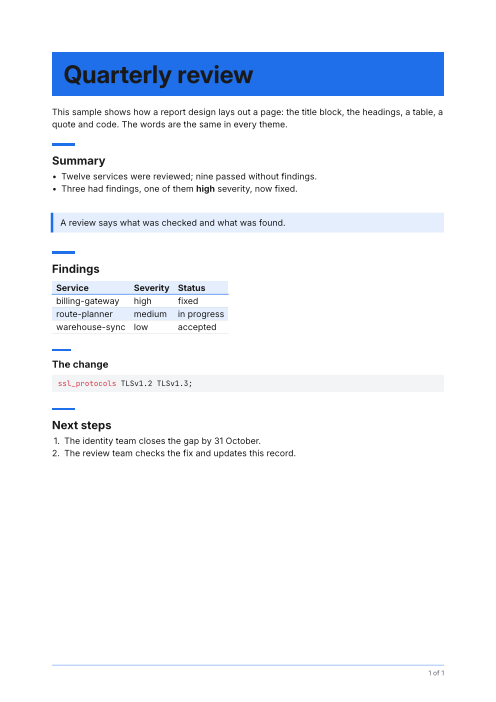
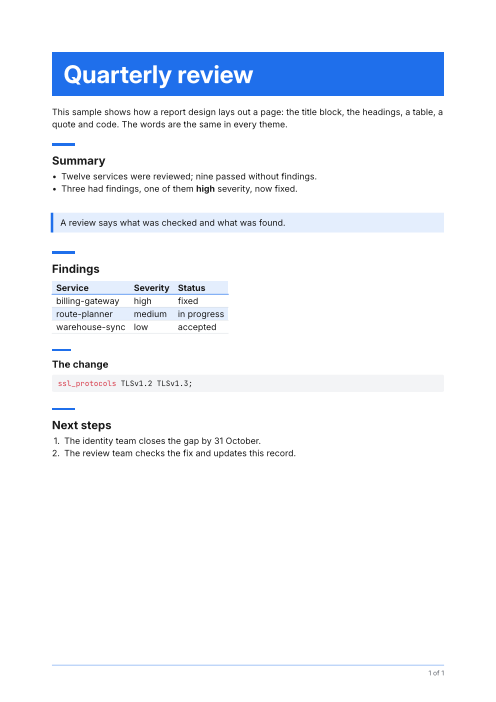
fix(runner): a band title is white on the accent; review findings
The review's invariants axis found the band title block drawn near-black on
the accent: the document's `show heading: set text(fill: ink)` sat closer to
the heading than the band's `set text(fill: white)`. Modern's title measured
3.76:1, below the 4.5:1 the core checked on the assumption of white
(DEV-230's AccentOnText, plan invariant 7). The band now sets white with a
show-set rule on the heading; TestRealRenderABandTitleIsWhite holds every
pixel inside the band to white or the accent (fails on the old template for
both accents tried), and Modern's thumbnail is redrawn.

Also from the review: a relative report.design is refused when the config
directory is unknown, rather than read from the working directory;
pkg/reportthumbs takes its ids from the core; comments that still spoke of
v1 themes now speak of the design.

Refs #784

Changed region(s): [[0.121, 0.0897, 0.5141, 0.1197]]

diff --git a/runnerimage/toolsrv/themes_test.go b/runnerimage/toolsrv/themes_test.go
@@ -589,3 +589,64 @@ func firstDifference(a, b image.Image) (int, int, bool) {
 	}
 	return 0, 0, false
 }
+
+// TestRealRenderABandTitleIsWhite (DEV-230's AccentOnText, invariant 7): a
+// band title block sets the title in white on the accent, the colour the
+// core's contrast check assumed; no pixel inside the band is darker than the
+// accent itself (the near-black body text drawn there by mistake would be).
+func TestRealRenderABandTitleIsWhite(t *testing.T) {
+	typst := realTypst(t)
+	for _, accent := range []string{"#1f6feb", "#0b3d2e"} {
+		d, _ := reportdesign.Builtin("modern")
+		d.Accent = accent
+		page := renderPNGsAt(t, typst, d.Canonical(), FormReport, "# A band title\n\nBody text.\n", thumbnailPPI, true)[0]
+		ar, ag, ab := hexRGB(t, accent)
+		rgb := func(x, y int) (uint32, uint32, uint32) {
+			r, g, bl, _ := page.At(x, y).RGBA()
+			return r >> 8, g >> 8, bl >> 8
+		}
+		isAccent := func(x, y int) bool { r, g, bl := rgb(x, y); return near(r, ar) && near(g, ag) && near(bl, ab) }
+		// The band is the box of accent pixels; its title is everything
+		// inside it that is not the accent.
+		b := page.Bounds()
+		x0, y0, x1, y1 := b.Max.X, b.Max.Y, -1, -1
+		for y := b.Min.Y; y < b.Max.Y; y++ {
+			for x := b.Min.X; x < b.Max.X; x++ {
+				if isAccent(x, y) {
+					x0, y0, x1, y1 = min(x0, x), min(y0, y), max(x1, x), max(y1, y)
+				}
+			}
+		}
+		if x1 < 0 {
+			t.Fatalf("%s: no band drawn", accent)
+		}
+		white, dark := 0, 0
+		for y := y0 + 2; y < y1-1; y++ {
+			for x := x0 + 2; x < x1-1; x++ {
+				r, g, bl := rgb(x, y)
+				if r > 240 && g > 240 && bl > 240 {
+					white++
+				}
+				if luma(r, g, bl) < luma(ar, ag, ab)-8 {
+					dark++
+				}
+			}
+		}
+		if white == 0 || dark > 0 {
+			t.Errorf("%s: inside the band %d pixels are white and %d darker than the accent: the band's title is not white", accent, white, dark)
+		}
+	}
+}
+
+func hexRGB(t *testing.T, h string) (uint32, uint32, uint32) {
+	t.Helper()
+	var r, g, b uint32
+	if _, err := fmt.Sscanf(h, "#%02x%02x%02x", &r, &g, &b); err != nil {
+		t.Fatal(err)
+	}
+	return r, g, b
+}
+
+func near(a, b uint32) bool { return a+3 >= b && b+3 >= a }
+
+func luma(r, g, b uint32) uint32 { return (299*r + 587*g + 114*b) / 1000 }

diff --git a/pkg/runner/engine/engine.go b/pkg/runner/engine/engine.go
@@ -112,9 +112,11 @@ type Params struct {
 	// voice_read granted and the receipt's voice line written only then.
 	// A built-in's run never carries one (D5).
 	Voice *AttachedVoice
-	// ReportTheme is the theme export_pdf lays the run's PDFs out with, and
-	// what chose it (agentry-cli#731); an empty Name is the built-in
-	// default. Used only when the plan grants export_pdf.
+	// ReportTheme is the report design export_pdf lays the run's PDFs out
+	// with, and what chose it (agentry-cli#731, #784): a design document, or
+	// a built-in theme's id; neither is the default, Plain. The type keeps
+	// its v1 name so that a caller passing a built-in's id (the desktop)
+	// still builds. Used only when the plan grants export_pdf.
 	ReportTheme ReportTheme
 	// Decoded, when set, is the decode step the caller ran on the inputs
 	// before this run (pkg/runner/decode); the receipt names it.

diff --git a/cmd/agentry/report_theme.go b/cmd/agentry/report_theme.go
@@ -71,12 +71,16 @@ func chooseReportTheme(ctx context.Context, flags reportFlags, cfg cliConfig, ac
 	}
 	fallback := engine.ReportTheme{Name: toolsrv.DefaultTheme, From: engine.ThemeFromDefault}
 	name, file := strings.TrimSpace(cfg.Report.Theme), strings.TrimSpace(cfg.Report.Design)
-	path, _ := configPath()
+	path, pathErr := configPath()
 	switch {
 	case name != "" && file != "":
 		return usage("report.theme and report.design in %s both choose the report design; keep one", path)
 	case file != "":
 		if !filepath.IsAbs(file) {
+			// Relative to the config directory, never the working one.
+			if pathErr != nil {
+				return usage("report.design %q is relative, and the config directory is not known: %v", file, pathErr)
+			}
 			file = filepath.Join(filepath.Dir(path), file)
 		}
 		doc, err := readDesignFile(file)

diff --git a/runnerimage/toolsrv/pdf.go b/runnerimage/toolsrv/pdf.go
@@ -116,7 +116,7 @@ type PDFEntry struct {
 func validatePDF(spec *Spec) error {
 	p := spec.PDF
 	if !p.Enabled && (p.Theme != nil || p.Ledger != "") {
-		return errors.New("pdf: a theme or a ledger without the export_pdf grant")
+		return errors.New("pdf: a report design or a ledger without the export_pdf grant")
 	}
 	if p.Theme != nil {
 		if _, err := p.Theme.check(); err != nil {
@@ -328,7 +328,7 @@ type pdfMeta struct {
 	// Agentry (D14).
 	Author string              `json:"author"`
 	Images map[string]pdfImage `json:"images"`
-	// Date is the day of the render (UTC, YYYY-MM-DD), for a theme's cover
+	// Date is the day of the render (UTC, YYYY-MM-DD), for a report's cover
 	// page: the same in every language.
 	Date string `json:"date"`
 	// Titled says the title is the report's own first heading, not its

diff --git a/pkg/reportthumbs/reportthumbs_test.go b/pkg/reportthumbs/reportthumbs_test.go
@@ -3,19 +3,13 @@ package reportthumbs
 import (
 	"bytes"
 	"image/png"
-	"slices"
 	"testing"
-
-	"github.com/blaktron/agentry/pkg/reportdesign"
 )
 
-// TestEveryBuiltinHasAThumbnail: one PNG per built-in theme of the core's
-// pkg/reportdesign, in its order, and nothing for anything else.
+// TestEveryBuiltinHasAThumbnail: a PNG for each built-in theme of the core's
+// pkg/reportdesign, and nothing for anything else.
 func TestEveryBuiltinHasAThumbnail(t *testing.T) {
-	if !slices.Equal(IDs, reportdesign.BuiltinIDs()) {
-		t.Fatalf("IDs = %v, the core's built-in themes are %v", IDs, reportdesign.BuiltinIDs())
-	}
-	for _, id := range IDs {
+	for _, id := range IDs() {
 		b, ok := PNG(id)
 		if !ok {
 			t.Fatalf("%s has no thumbnail", id)

diff --git a/pkg/runner/receipt/receipt.go b/pkg/runner/receipt/receipt.go
@@ -91,9 +91,9 @@ type Envelope struct {
 	// PDFs is what export_pdf wrote (plan scratch-and-pdf-reports.md §5,
 	// D15; agentry-cli#730): the report design every PDF of the run was laid
 	// out with (report-designs.md, agentry-cli#784), and each PDF in reports/
-	// whose bytes are the ones the tools server recorded, with its form. A reader opens in place only a PDF this names with a
-	// matching SHA-256; any other is download-only. Absent for a run that
-	// exported none.
+	// whose bytes are the ones the tools server recorded, with its form. A
+	// reader opens in place only a PDF this names with a matching SHA-256;
+	// any other is download-only. Absent for a run that exported none.
 	PDFs *PDFs `json:"pdfs,omitempty"`
 }
 

diff --git a/pkg/reportthumbs/reportthumbs.go b/pkg/reportthumbs/reportthumbs.go
@@ -15,18 +15,20 @@ package reportthumbs
 import (
 	"embed"
 	"slices"
+
+	"github.com/blaktron/agentry/pkg/reportdesign"
 )
 
 //go:embed *.png
 var files embed.FS
 
 // IDs are the built-in themes a thumbnail is kept for, in the order they
-// are offered: pkg/reportdesign's BuiltinIDs, which a test holds.
-var IDs = []string{"plain", "classic", "modern", "editorial", "technical"}
+// are offered: the core's.
+func IDs() []string { return reportdesign.BuiltinIDs() }
 
 // PNG is a built-in theme's thumbnail.
 func PNG(id string) ([]byte, bool) {
-	if !slices.Contains(IDs, id) {
+	if !slices.Contains(IDs(), id) {
 		return nil, false
 	}
 	b, err := files.ReadFile(id + ".png")

diff --git a/runnerimage/toolsrv/markdown.go b/runnerimage/toolsrv/markdown.go
@@ -343,8 +343,8 @@ var (
 	mdHTMLStart = regexp.MustCompile(`^ {0,3}<`)
 )
 
-// hardLineBreaks keeps each line of a paragraph on a line of its own (a
-// theme's lineBreaks "hard"; agentry-cli#731): a letter's address block,
+// hardLineBreaks keeps each line of a paragraph on a line of its own (the
+// letter form; agentry-cli#731, #784): a letter's address block,
 // its To, From and Date lines and its signature are written one to a line,
 // and Markdown joins them. A short paragraph line (under shortLine runes)
 // followed by another gets a CommonMark hard break, a trailing backslash;

diff --git a/runnerimage/toolsrv/spec.go b/runnerimage/toolsrv/spec.go
@@ -115,8 +115,8 @@ type Spec struct {
 	// release's one-shot run alone, with end_blocked granted beside it.
 	Calls Calls `json:"calls,omitzero"`
 	// PDF is export_pdf's grant (pdf.go): Enabled by the compiler with the
-	// scratch folder, the theme, the author line and the ledger stamped by
-	// the engine.
+	// scratch folder, the report design, the author line and the ledger
+	// stamped by the engine.
 	PDF PDF `json:"pdf,omitzero"`
 	// Limits bounds tool I/O; zero values take the package defaults.
 	Limits Limits `json:"limits"`

diff --git a/pkg/runner/engine/support.go b/pkg/runner/engine/support.go
@@ -66,8 +66,8 @@ type runDirs struct {
 	// a reused output folder never stands for this one's.
 	callsLedger string
 	// pdfLedger is receipts/pdfs.ndjson for a run granted export_pdf
-	// (pdf.go), made as webLedger is, and pdfTheme the theme stamped into
-	// the run's tools spec, for the receipt.
+	// (pdf.go), made as webLedger is, and pdfTheme the report design
+	// stamped into the run's tools spec, for the receipt.
 	pdfLedger string
 	pdfTheme  *toolsrv.ThemeStamp
 	// pdfThemeFrom is what chose pdfTheme, for the receipt.
